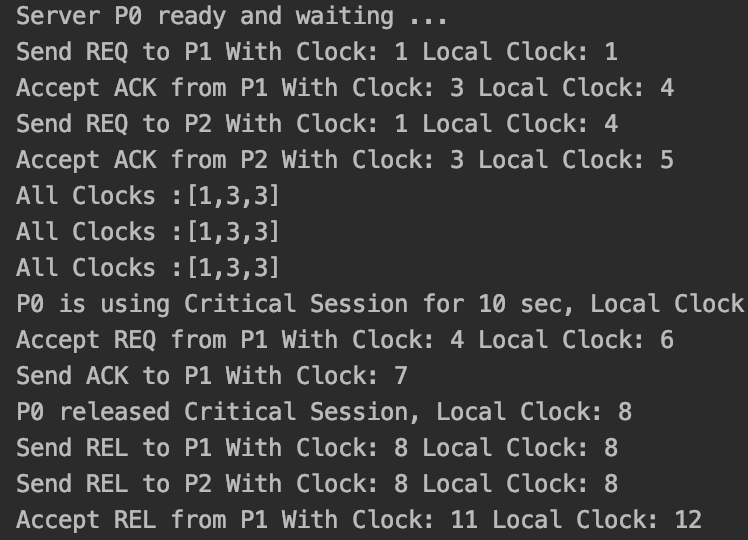
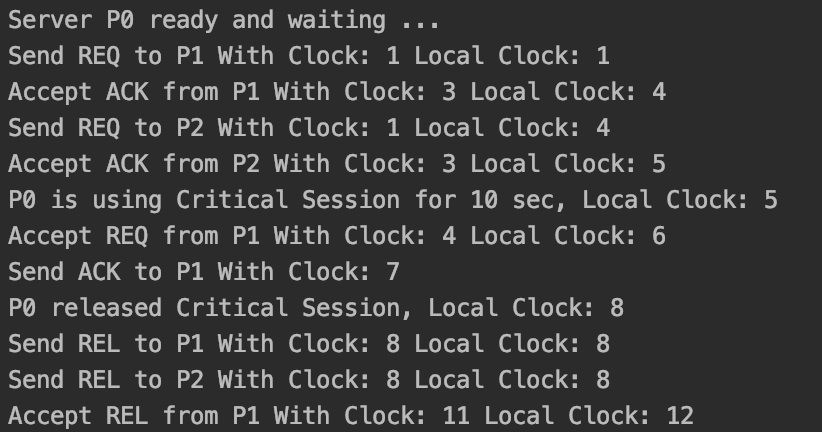
adding synchronized to synchronize allClocks

diff --git a/src/me/walid/LamportIml.java b/src/me/walid/LamportIml.java
@@ -11,17 +11,18 @@ import java.util.Arrays;
 
 
 public class LamportIml extends LamportPOA {
-    public static final String req="REQ";
-    public static final String ack="ACK";
-    public static final String rel="REL";
+    public static final String req = "REQ";
+    public static final String ack = "ACK";
+    public static final String rel = "REL";
 
     private int localClock;
-    private int[] allClocks=new int[3];
-    private String[] allMessages=new String[3];
-    private int[]neighbors;
+    private final int[] allClocks = new int[3];
+    private String[] allMessages = new String[3];
+    private int[] neighbors;
     private int i;
     private NamingContextExt ncRef;
-    private boolean isAllowedToAccesCriticalSession=false;
+    private boolean isAllowedToAccesCriticalSession = false;
+
     public LamportIml(int[] neighbors, int i) {
         this.neighbors = neighbors;
         this.i = i;
@@ -41,11 +42,10 @@ public class LamportIml extends LamportPOA {
     public void sendReq(int p, int clock) {
         try {
 
-            Lamport addobj = (Lamport) LamportHelper.narrow(ncRef.resolve_str("P"+p));
-            System.out.println("Send REQ to P"+p+" With Clock: "+clock+" Local Clock: "+this.localClock);
-            addobj.acceptReq(i,clock);
-        }
-        catch (Exception e) {
+            Lamport addobj = (Lamport) LamportHelper.narrow(ncRef.resolve_str("P" + p));
+            System.out.println("Send REQ to P" + p + " With Clock: " + clock + " Local Clock: " + this.localClock);
+            addobj.acceptReq(i, clock);
+        } catch (Exception e) {
             System.out.println("Client exception: " + e);
             e.printStackTrace();
         }
@@ -54,12 +54,11 @@ public class LamportIml extends LamportPOA {
     @Override
     public void sendAck(int p, int clock) {
         try {
-            Lamport addobj = (Lamport) LamportHelper.narrow(ncRef.resolve_str("P"+p));
+            Lamport addobj = (Lamport) LamportHelper.narrow(ncRef.resolve_str("P" + p));
             this.localClock++;
-            System.out.println("Send ACK to P"+p+" With Clock: "+this.localClock);
-            addobj.acceptAck(i,this.localClock);
-        }
-        catch (Exception e) {
+            System.out.println("Send ACK to P" + p + " With Clock: " + this.localClock);
+            addobj.acceptAck(i, this.localClock);
+        } catch (Exception e) {
             System.out.println("Lamport exception: " + e);
             e.printStackTrace();
         }
@@ -68,13 +67,12 @@ public class LamportIml extends LamportPOA {
     @Override
     public void sendRel(int p, int clock) {
         try {
-            org.omg.CORBA.Object objRef =   Server.orb.resolve_initial_references("NameService");
+            org.omg.CORBA.Object objRef = Server.orb.resolve_initial_references("NameService");
             NamingContextExt ncRef = NamingContextExtHelper.narrow(objRef);
-            Lamport addobj = (Lamport) LamportHelper.narrow(ncRef.resolve_str("P"+p));
-            System.out.println("Send REL to P"+p+" With Clock: "+clock+" Local Clock: "+this.localClock);
-            addobj.acceptRel(i,this.localClock);
-        }
-        catch (Exception e) {
+            Lamport addobj = (Lamport) LamportHelper.narrow(ncRef.resolve_str("P" + p));
+            System.out.println("Send REL to P" + p + " With Clock: " + clock + " Local Clock: " + this.localClock);
+            addobj.acceptRel(i, this.localClock);
+        } catch (Exception e) {
             System.out.println("Lamport exception: " + e);
             e.printStackTrace();
         }
@@ -82,59 +80,61 @@ public class LamportIml extends LamportPOA {
 
     @Override
     public void acceptReq(int p, int clock) {
-        this.localClock=Math.max(clock,this.localClock)+1;
-        System.out.println("Accept REQ from P"+p+" With Clock: "+clock+" Local Clock: "+this.localClock);
-        this.allClocks[p]=clock;
-        this.allMessages[p]=req;
-        sendAck(p,localClock);
+        this.localClock = Math.max(clock, this.localClock) + 1;
+        System.out.println("Accept REQ from P" + p + " With Clock: " + clock + " Local Clock: " + this.localClock);
+        this.allClocks[p] = clock;
+        this.allMessages[p] = req;
+        sendAck(p, localClock);
     }
 
     @Override
     public void acceptAck(int p, int clock) {
-        this.localClock=Math.max(clock,this.localClock)+1;
-        System.out.println("Accept ACK from P"+p+" With Clock: "+clock+" Local Clock: "+this.localClock);
-        if (!this.allMessages[p].equals(req)){
-            this.allClocks[p]=clock;
-            this.allMessages[p]=ack;
+        this.localClock = Math.max(clock, this.localClock) + 1;
+        System.out.println("Accept ACK from P" + p + " With Clock: " + clock + " Local Clock: " + this.localClock);
+        if (!this.allMessages[p].equals(req)) {
+            this.allClocks[p] = clock;
+            this.allMessages[p] = ack;
         }
     }
 
     @Override
     public void acceptRel(int p, int clock) {
-        this.localClock=Math.max(clock,this.localClock)+1;
-        System.out.println("Accept REL from P"+p+" With Clock: "+clock+" Local Clock: "+this.localClock);
-        this.allClocks[p]=clock;
-        this.allMessages[p]=rel;
+        this.localClock = Math.max(clock, this.localClock) + 1;
+        System.out.println("Accept REL from P" + p + " With Clock: " + clock + " Local Clock: " + this.localClock);
+        this.allClocks[p] = clock;
+        this.allMessages[p] = rel;
     }
 
     @Override
     public void criticalSessionRequest() {
         this.localClock++;
-        int currentLocalClock=this.localClock;
-        this.allClocks[this.i]=this.localClock;
-        this.allMessages[this.i]=req;
-        for (int i=0;i<neighbors.length;i++){
-            if (i!=this.i)
-                sendReq(i,currentLocalClock);
+        int currentLocalClock = this.localClock;
+        this.allClocks[this.i] = this.localClock;
+        this.allMessages[this.i] = req;
+        for (int i = 0; i < neighbors.length; i++) {
+            if (i != this.i)
+                sendReq(i, currentLocalClock);
         }
         //wait
-        while (true){
-            for (int j=0;j<neighbors.length;j++){
-                System.out.println("All Clocks :["+allClocks[0]+","+allClocks[1]+","+allClocks[2]+"]");
-                if (j!=this.i){
-                    if ( allClocks[this.i] < allClocks[j] || ((allClocks[this.i] == allClocks[j]) && i<j)){
-                        isAllowedToAccesCriticalSession=true;
-                }else {
-                        isAllowedToAccesCriticalSession=false;
-                        break;
-                }
+        while (true) {
+            for (int j = 0; j < neighbors.length; j++) {
+                //System.out.println("All Clocks :[" + allClocks[0] + "," + allClocks[1] + "," + allClocks[2] + "]");
+                if (j != this.i) {
+                    synchronized (allClocks){
+                        if (allClocks[this.i] < allClocks[j] || ((allClocks[this.i] == allClocks[j]) && i < j)) {
+                            isAllowedToAccesCriticalSession = true;
+                        } else {
+                            isAllowedToAccesCriticalSession = false;
+                            break;
+                        }
+                    }
                 }
             }
             if (isAllowedToAccesCriticalSession)
             //CS
             {
                 try {
-                    System.out.println("P"+this.i+" is using Critical Session for 10 sec, Local Clock: "+this.localClock);
+                    System.out.println("P" + this.i + " is using Critical Session for 10 sec, Local Clock: " + this.localClock);
                     Thread.sleep(30 * 1000);
                     break;
                 } catch (InterruptedException e) {
@@ -147,15 +147,15 @@ public class LamportIml extends LamportPOA {
 
     @Override
     public void criticalSessionRealise() {
-        isAllowedToAccesCriticalSession=false;
+        isAllowedToAccesCriticalSession = false;
         this.localClock++;
-        System.out.println("P"+this.i+" released Critical Session, Local Clock: "+this.localClock);
-        for (int i=0;i<neighbors.length;i++){
-            if (i!=this.i)
-            sendRel(i,this.localClock);
+        System.out.println("P" + this.i + " released Critical Session, Local Clock: " + this.localClock);
+        for (int i = 0; i < neighbors.length; i++) {
+            if (i != this.i)
+                sendRel(i, this.localClock);
         }
-        this.allClocks[this.i]=this.localClock;
-        this.allMessages[this.i]=rel;
+        this.allClocks[this.i] = this.localClock;
+        this.allMessages[this.i] = rel;
     }
 
     public int getIdentifier() {

diff --git a/readme.md b/readme.md
@@ -1,5 +1,5 @@
 # This Project is an implementation of Lamport algorithm using Corba
-##Lamport Algorithm:
+## Lamport Algorithm:
 LA1: To request entry into its CS, a process sends a time-stamped request to every other
 process in the system and also enters the request in its local Q.  
 
